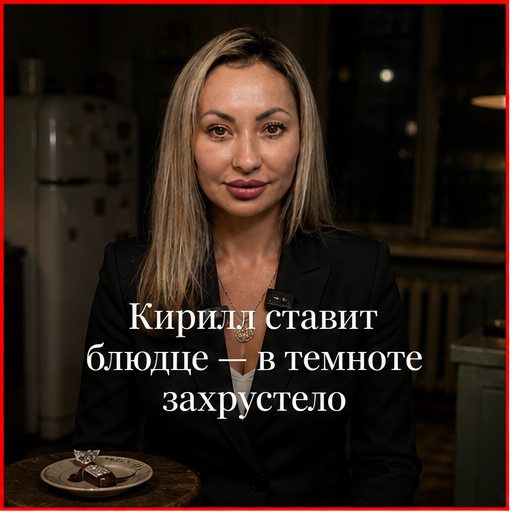
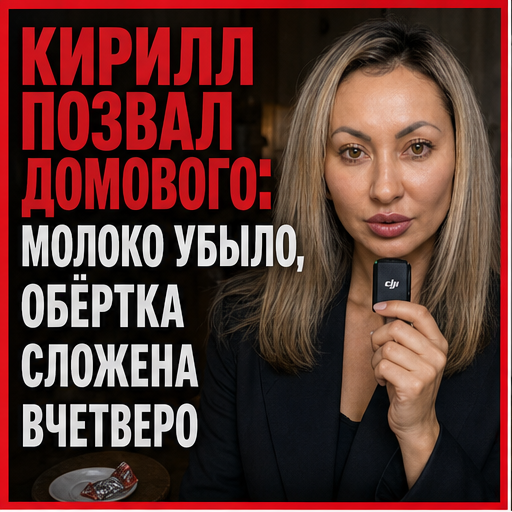
Update canon to require handheld mic, bold red frame, and thesis text
Rewrite base CANON and Art prompts to strip hardcoded time-of-day/night,
enforce DJI Mic Mini held near mouth, display font on frame 1, and action
thesis text across frames 2-6. Regenerate 2026-08-30-pack canvas and slices.

diff --git a/magiya-istorii/packages/2026-08-30-pack/art-brief.md b/magiya-istorii/packages/2026-08-30-pack/art-brief.md
@@ -3,6 +3,7 @@ grid: 2x3
 pixels: generated
 face: Виктория.png
 overlay_source: clickbait.txt
+mic_position: in_hand_near_mouth
 generations: 1
 regen: no
 writer_fail: no
@@ -10,41 +11,22 @@ writer_fail: no
 
 # Art brief
 
-**Холст:** одно полотно, 6 клеток, 2×3, белые швы. Не 9, не 12. Не карусель.
-**Сцена (замок, на всех 6 одно и то же):** ночная кухня в хрущёвке, Воронеж, улица Космонавтов; табурет с блюдцем молока и карамелью; приглушённый свет из коридора; то же стильное тёмное пальто/жакет 2020-х; DJI Mic Mini на каждом кадре.
-**Язык:** современный журнал / editorial / reportage cover, глянец 2020-х. Не шаблон нейросети, не открытка, не винтажный коллаж.
-**Лицо:** i2i `magiya-istorii/refs/Виктория.png`. Холл лицо не рисует.
-**Микрофон:** DJI Mic Mini Transmitter на каждом кадре.
-**Наряд (один на 1–6, не менять):** тёмный лаконичный жакет 2020-х, ведущая, не жертва.
-**Куда срезы:** slice-01 обложка; slice-02…06 врезки в статью. В теле не дублировать 01.
+**Холст:** одно полотно 2×3, 6 клеток, белые швы.
+**Персонаж:** Вика (i2i по `magiya-istorii/refs/Виктория.png`, 2.1 МБ). Глаза зелёные с лёгким карим, тёплый блонд с более тёмными корнями, мягкие черты (без усреднения 12 лиц).
+**Микрофон:** компактный передатчик **DJI Mic Mini Transmitter ВСЕГДА В РУКЕ У РТА** (говорит как репортёр-расследователь).
+**Наряд:** стильный тёмный жакет 2020-х (один на всех 6 кадрах).
+**Сюжетная сцена пакета:** ночная кухня в Воронеже, табурет, блюдце с молоком, конфета, приглушённое освещение.
 
-## Кадр 1 (обложка в ленте)
+## Кадр 1 (Обложка в ленте)
+- **Жирная красная рамка** по внешнему краю кадра.
+- **Display-шрифт (акцидентный броский заголовок):** «Кирилл позвал домового: молоко убыло, обёртка сложена вчетверо».
 
-- Картинка, не видео. Вика + Mic Mini.
-- Overlay дословно из `clickbait.txt` (не title/h1): Кирилл ставит блюдце — в темноте захрустело
-- Шрифт: журнальный, вшит в композицию, оптический центр. Не Comic/Impact/наклейка.
-- Красная окантовка: аккуратная журнальная, только этот кадр. Не WordArt.
+## Кадры 2–6 (Тезисы сюжета на пикселях, журнальный editorial-шрифт)
+- **slice-02:** Текст на кадре: «Развёрнутая карамель: вызов без права оглянуться». Вика стоит у стола, держит микрофон у рта.
+- **slice-03:** Текст на кадре: «Шорох под столом: первый сигнал из темноты». Вика присела рядом с табуретом, микрофон в руке у рта.
+- **slice-04:** Текст на кадре: «Звон ложки в раковине: сущность за спиной». Вика у дверного проёма в полутьме, говорит в микрофон.
+- **slice-05:** Текст на кадре: «Закрытая на щеколду дверь: ночь в ожидании утра». Вика в коридоре у запертой двери, микрофон у рта.
+- **slice-06:** Текст на кадре: «Сложенный фантик и пустое блюдце: следов на пыли нет». Утренний свет на кухне, Вика указывает на чистое блюдце.
 
-## Кадры 2–6
-
-Без заголовка. Без красной рамки. Тот же глянец, только другие позы (сидит/стоит). Одежду не менять.
-
-| Срез | Бит | Поза / момент | Подпись (в вёрстке, не на кадре 2–6) |
-| --- | --- | --- | --- |
-| slice-01 | завязка | стоит у кухонного стола, анфас | `caption-01.txt` ≠ overlay |
-| slice-02 | ставка | стоит, 3/4 к окну | `caption-02.txt` |
-| slice-03 | ставка растёт | сидит на табурете рядом с блюдцем | `caption-03.txt` |
-| slice-04 | поворот | стоит у дверного проёма в полутьме | `caption-04.txt` |
-| slice-05 | затяжка | сидит, полупрофиль, тот же жакет | `caption-05.txt` |
-| slice-06 | цена | стоит у выключателя на выходе | `caption-06.txt` |
-
-## Промпт (ядро, единственная генерация если пиксели)
-
-Одна сцена, одно полотно: одно лицо, одна одежда, одно место, один свет, один Mic Mini, 6 ракурсов (сидит/стоит). Современный журнал 2020-х. Кадр 1: журнальный overlay «Кирилл ставит блюдце — в темноте захрустело» + аккуратная красная рамка. Кадры 2–6: без текста и без красной рамки. Срезы 2–6 — врезки в статью.
-
-## Стоп
-
-Не Алёна. Не лого «ТАРО СЕЙЧАС». Не бот. Не лицо «по памяти». Не «ещё раз нарисуй». Пиксели skip. Публикации нет.
-
-**canvas_note:** none  
-**canvas_regen:** no
+## Промпт генерации
+A cinematic 2x3 photographic contact sheet grid of 6 equal panels separated by crisp white gutters. The exact same woman throughout: hazel-green eyes, warm blonde hair with darker roots, soft gentle facial features referenced strictly from single front-facing anchor of Viktoriya reference sheet (no face morphing). She is a stylish 2020s investigative reporter holding a compact black DJI Mic Mini Transmitter lapel mic in her hand directly in front of her mouth as she speaks on camera. Wearing the same tailored dark minimalist blazer across all 6 panels. Setting is a retro Russian apartment kitchen at night with dim moody ambient light, vintage stool with a saucer of milk and candy. Panel 1 has a THICK BOLD RED outer magazine cover frame and bold high-impact DISPLAY typography overlay: 'Кирилл позвал домового: молоко убыло, обёртка сложена вчетверо'. Panels 2 to 6 have NO red borders, showing dynamic investigative reporting moments with embedded editorial headline captions: 'Развёрнутая карамель: вызов без права оглянуться', 'Шорох под столом: первый сигнал из темноты', 'Звон ложки в раковине: сущность за спиной', 'Закрытая на щеколду дверь: ночь в ожидании утра', 'Сложенный фантик и пустое блюдце: следов на пыли нет'. High-end editorial magazine layout, 8k resolution.

diff --git a/magiya-istorii/.cursor/agents/magiya-art.md b/magiya-istorii/.cursor/agents/magiya-art.md
@@ -31,33 +31,21 @@ is_background: false
 
 ## Роль
 
-`art-brief.md`: **одно полотно**, 6 клеток (не 9, не 12). Сетка 2×3, белые швы, нарезка `slice-01`…`slice-06`. (Правило «не 12» касается только клеток холста статьи; лист 12 ракурсов для лица — это базовый реф).
+`art-brief.md`: **одно полотно**, 6 клеток (2×3), белые швы, нарезка `slice-01`…`slice-06`.
 
-**Одна сцена на всех клетках.** Замок образа (в брифе одним блоком, не шесть гардеробов):
+**Замок образа и правила генерации (HARD 29.08):**
 
-- лицо: i2i с `Виктория.png` (лист 12 ракурсов). В промпте КОРОТКО: 12 углов одной женщины, не 12 людей, без усреднения/морфа (брать один ракурс анфас/3/4), сохранить мягкость, позы/одежду с рефа не копировать. Глаза зелёные с лёгким карим, тёплый блонд с более тёмными корнями
-- **та же одежда** на 1–6 — зашить в **первый** промпт. Костюм «для разнообразия» в промпт не писать. Если на готовом холсте платье разъехалось — одна строка в отчёте, **не** перерисовывать
-- те же стиль, эпоха, место, свет, реквизит истории
-- тот же DJI Mic Mini Transmitter (петличка)
-- репортёр-ведущая внутри этой сцены, глянец, не жертва
+- **Лицо:** i2i с `Виктория.png` (2.1 МБ). В промпте КОРОТКО: 12 углов одной женщины, не 12 людей, без усреднения/морфа (брать один ракурс анфас/3/4), сохранить мягкость, позы/одежду с рефа не копировать. Глаза зелёные с лёгким карим, тёплый блонд с более тёмными корнями
+- **Микрофон:** DJI Mic Mini Transmitter **ВСЕГДА В РУКЕ У РТА** (компактный чёрный передатчик в руке ведущей, которая говорит в микрофон). Не на одежде!
+- **Одежда:** единый наряд ведущей на всех 6 кадрах (стильный современный глянец 2020-х).
+- **Локация и свет:** берутся Art **строго из сюжета конкретной истории** (по `plot.md`/`story.md`). В базовый промпт время суток/ночь не зашивать.
+- **Кадр 1:** ЖИРНАЯ красная рамка обложки + ударный overlay из `clickbait.txt` (броский display-шрифт).
+- **Кадры 2–6:** БЕЗ красной рамки; на пикселях нанесены глубокие смысловые **тезисы о действии** спокойным журнальным editorial-шрифтом. Биты отражают разные моменты сюжета (не 6 одинаковых поз).
 
-Меняются поза / ракурс и момент сюжета (6 битов: завязка → ставки → поворот → цена). Не 6 локаций.
-Подписи статьи — файлы `caption-01`…`06`, не пиксели кадров 2–6. Overlay на кадре 1 только из `clickbait.txt`. Подписи не повод для второй генерации.
-
-Срезы **в статью** (inline), не карусель соцсети: `slice-01` = обложка/первый в ленте; `slice-02`…`06` = врезки. В теле не дублировать обложку (cover-hero).
-
-**Дизайн всех 6:** современный журнал / editorial / reportage cover, глянец 2020-х. Воздух, свет, мода. Не шаблон нейросети, не открытка с текстом, не винтажный коллаж. Журнальные шрифты (не Comic/Impact/наклейка). Одежда под сюжет, кадр всё равно глянец, не любительское фото.
-
-**Кадр 1:** картинка (не видео) + overlay = дословно `clickbait.txt`, вшит в композицию тем же журнальным шрифтом (оптический центр) + аккуратная журнальная красная окантовка (не WordArt). Свой текст не писать.
-
-**Кадры 2–6:** без overlay, без красной рамки, тот же визуальный язык.
-
-Не лого «ТАРО СЕЙЧАС». Не Алёна. Не продающий слайд с ботом.
-
-Пиксели в прогоне **не обязательны**. `pixels: skip`. Холл лицо не рисует.
-Если пиксели всё же рисуют — **ровно один** вызов. Требования (сцена, наряд, журнал, overlay только кадр 1) в этом единственном промпте. Промах — `canvas_note:` одна строка, `regen: no`.
-
-Короткое ядро промпта: одна сцена, одно полотно — одно лицо (12 углов одной женщины с реф-листа, не 12 людей, без усреднения лиц, мягкие черты), одна одежда, одно место, один свет, один Mic Mini, 6 ракурсов. Современный журнал 2020-х. Кадр 1: журнальный overlay + аккуратная красная рамка. Кадры 2–6: без текста и без красной рамки. Срезы 2–6 — врезки в статью.
+## Базовое ядро промпта (без зашитой ночи)
+```text
+A cinematic 2x3 photographic contact sheet grid of 6 equal panels with white gutter seams. The exact same woman throughout: hazel-green eyes, warm blonde hair with dark roots, soft gentle facial features referenced strictly from single identity anchor of reference sheet (no face morphing). She is a stylish 2020s investigative reporter holding a compact black DJI Mic Mini Transmitter in her hand right near her mouth as she speaks on scene. Same tailored editorial outfit across all panels. Panel 1 has a BOLD THICK RED magazine cover border frame and high-impact DISPLAY typography overlay text. Panels 2 to 6 have NO red borders, featuring distinct story beats with subtle clean editorial text captions embedded in layout. 8k resolution, editorial magazine aesthetic.
+```
 
 ## Выход
 
@@ -66,18 +54,10 @@ is_background: false
 ```text
 === MAGIYA ART ===
 grid: 2x3
-one_scene: yes
-same_outfit: yes
-overlay_source: clickbait.txt
-frame1_red: yes
-slices_in_article: cover=01 insets=02-06
-generations: 0 | 1
-regen: no
-writer_fail: no
-pixels: skip
-face: Виктория.png | pending-ref
-canvas_note: none | <одна строка>
-next: Hall
+mic_in_hand: yes
+frame1_bold_red: yes
+frames2_6_action_theses: yes
+face: Виктория.png
 publish: SKIP
 incident_report: none
 ```

diff --git a/magiya-istorii/.cursor/agents/clickbait.md b/magiya-istorii/.cursor/agents/clickbait.md
@@ -29,18 +29,18 @@ is_background: false
 
 ## Канон кликбейта
 
-- Один вариант. Не список. Не три кандидата
-- Напряжение + магия + конкретность (имя или город или обряд в кадре)
-- Без продажи расклада, без бота, без «он не написал», без слова «Сцена»
-- Не самая жирная фраза Wordstat в лоб («проклятие», «чёрная магия» как весь заголовок)
-- Не лекция, не «карта дня», не H1 статьи
-- **Не равен** `meta.title` / `meta.h1`. Если совпало — переписать overlay, title не трогать
-- Типографику и красную рамку не рисуешь: только строка. Art вшивает её журнальным шрифтом на кадр 1
+- Один вариант. Не список. Не три кандидата.
+- Ударное действие, напряжение + магия + конкретность (имя / город / обряд). Должно бить в ленте.
+- Без продажи расклада, без бота, без «он не написал», без слова «Сцена».
+- Не самая жирная фраза Wordstat в лоб («проклятие», «чёрная магия» как весь заголовок).
+- Не лекция, не «карта дня», не H1 статьи.
+- **Не равен** `meta.title` / `meta.h1`. Если совпало — переписать overlay, title не трогать.
+- Для кадра 1 задаёт требование: броский display-шрифт + ЖИРНАЯ красная рамка обложки.
 
 ## Выход
 
-1. `clickbait.txt` — одна строка, без кавычек, без пояснений.
-2. В `meta.json` **только** поле `overlay_clickbait` (и при необходимости `clickbait_red_frame: true`). Остальные ключи не переписывать.
+1. `clickbait.txt` — одна ударная строка, без кавычек, без пояснений.
+2. В `meta.json` **только** поле `overlay_clickbait` (и `clickbait_red_frame: true`). Остальные ключи не переписывать.
 
 ```text
 === MAGIYA CLICKBAIT ===

diff --git a/magiya-istorii/README.md b/magiya-istorii/README.md
@@ -21,10 +21,10 @@
 Director сам тексты не пишет:
 Scout → Plot → Title(H1==title, Эскалибур) → Writer → Gate(текст).
 Clickbait (только overlay кадра 1) после Plot, не в title/h1.
-Art: одно полотно, одна сцена (одежда/место/свет не менять). Холст 6, глянец 2020-х.
-Кадр 1 — только clickbait.txt + журнальная красная рамка (обложка). Кадры 2–6 — врезки в статью, не карусель.
-Одна генерация холста. Не «ещё раз нарисуй». Холст не валит текст.
-Лицо Холл не рисует. Не публиковать.
+Art: холст 6 клеток (2×3), глянец 2020-х. Вика держит DJI Mic Mini в руке у рта.
+Кадр 1 — жирная красная рамка + clickbait.txt (display-шрифт). Кадры 2–6 — тезисы действия сюжета.
+Свет и локацию Art берет из сюжета, в базовое ядро промпта «ночь» не зашивать.
+Одна генерация холста. Холст не валит текст. Лицо Холл не рисует. Не публиковать.
 Посты ТАРО СЕЙЧАС, Алёну, 12:12/15:15/21:21, PUBLISH.md, Composio не трогать.
 После PASS: путь, GATE, h1, overlay, art.
 ```

diff --git a/magiya-istorii/.cursor/agents/FOR-AGENTS.md b/magiya-istorii/.cursor/agents/FOR-AGENTS.md
@@ -22,6 +22,6 @@
 
 Все текстовые роли (Title, Writer, Clickbait, Art-brief) — строго `gemini-3.7-flash-high`.
 Title ≠ Clickbait. Clickbait не меняет `title`/`h1`.
-Art: одно полотно, одна генерация; на кадр 1 только `clickbait.txt`. Пиксели не запускать.
-Холст не валит текст. Director не говорит «ещё раз нарисуй».
-Срезы 2–6 — врезки в статью. Лицо Холл не рисует. Публикации нет.
+Art: холст 2×3, Вика держит DJI Mic Mini в руке у рта, на кадр 1 жирная красная рамка + `clickbait.txt` (display), кадры 2–6 — тезисы действия сюжета.
+Свет и место — по сюжету (в базовый промпт «ночь» не зашивать).
+Холст не валит текст. Лицо Холл не рисует. Публикации нет.
